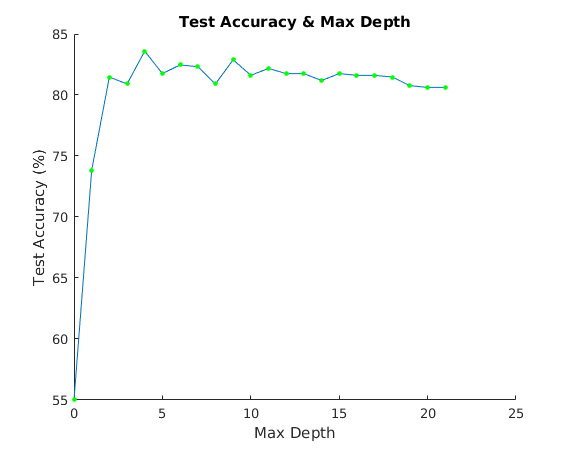
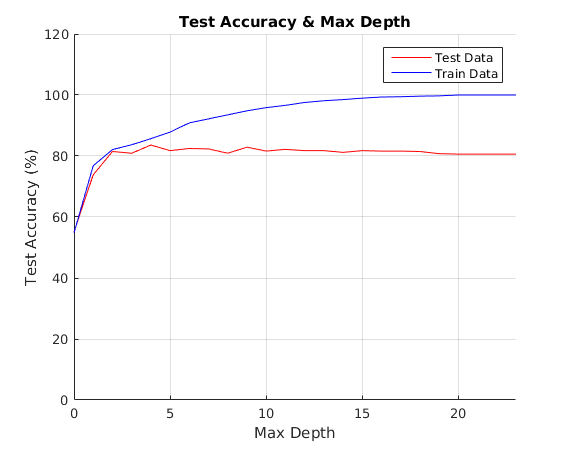
a3: Rectify DTL graph.

diff --git a/a3/dtl_graph.m b/a3/dtl_graph.m
@@ -1,20 +1,27 @@
 % clear figure
 clf;
 % data
-x = 0 : 21;
-y = [55.0212164074 73.8330975955 81.4710042433 80.9052333805 ...
+x = 0 : 23;
+y_test = [55.0212164074 73.8330975955 81.4710042433 80.9052333805 ...
      83.5926449788 81.7538896747 82.4611032532 82.3196605375 ...
      80.9052333805 82.8854314003 81.612446959 82.1782178218 ...
      81.7538896747 81.7538896747 81.1881188119 81.7538896747 ...
      81.612446959  81.612446959 81.4710042433 80.7637906648 ...
-     80.6223479491 80.6223479491 ];
+     80.6223479491 80.6223479491 80.6223479491 80.6223479491];
+y_train = [54.7596606975 76.8143261074 82.0923656927 83.6946277097 ...
+    85.6738925542 87.8416588124 90.8576814326 92.1771913289 ...
+    93.4967012253 94.8162111216 95.8529688973 96.6069745523 ...
+    97.5494816211 98.1149858624 98.4919886899 98.9632422243 ...
+    99.3402450518 99.4344957587 99.6229971725 99.7172478794 ...
+    100.0 100.0 100.0 100.0];
+
 % plot
 hold on;
-plot(x, y);
-plot(x, y,'o', ... 
-    'MarkerSize',3, ...
-    'MarkerEdgeColor','g', ...
-    'MarkerFaceColor','g');
+grid on;
+axis([0 23 0.0 120.0]);
+plot(x, y_test, 'r');
+plot(x, y_train, 'b');
+legend('Test Data','Train Data');
 xlabel('Max Depth');
 ylabel('Test Accuracy (%)');
 title('Test Accuracy & Max Depth');
